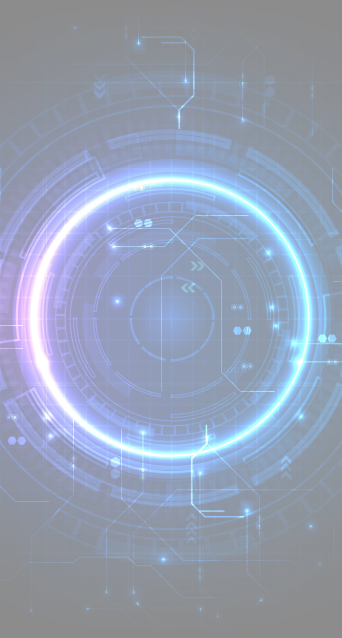
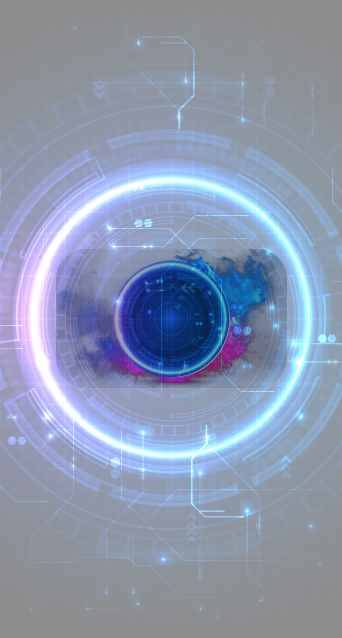
update images for event details

Changed region(s): [[0.1462, 0.3871, 0.848, 0.6254]]

diff --git a/lib/screens/event_details/widgets/event_details_members_widget.dart b/lib/screens/event_details/widgets/event_details_members_widget.dart
@@ -39,39 +39,6 @@ class EventDetailsMembersWidget extends StatelessWidget {
         Positioned.fill(
           child: Center(
             child: Container(
-              height: $constants.events.eventMembersCenterBGHeight,
-              decoration: BoxDecoration(
-                borderRadius: BorderRadius.all(
-                  Radius.circular($constants.insets.md),
-                ),
-                shape: BoxShape.rectangle,
-                image: const DecorationImage(
-                  image: AssetImage(PathConstants.eventHostBGImage),
-                  fit: BoxFit.fitHeight,
-                ),
-              ),
-            ),
-          ),
-        ),
-        Positioned.fill(
-          child: Center(
-            child: Container(
-              margin: const EdgeInsets.only(top: 3, left: 3),
-              height: $constants.events.eventMembersCircleBGHeight,
-              width: $constants.events.eventMembersCircleBGHeight,
-              decoration: const BoxDecoration(
-                shape: BoxShape.circle,
-                image: DecorationImage(
-                  image: AssetImage(PathConstants.eventHostBgCircle),
-                  fit: BoxFit.fitHeight,
-                ),
-              ),
-            ),
-          ),
-        ),
-        Positioned.fill(
-          child: Center(
-            child: Container(
               margin: const EdgeInsets.only(top: 4, left: 4),
               height: $constants.events.eventMembersCenterImageSize,
               width: $constants.events.eventMembersCenterImageSize,

diff --git a/lib/data/path_constants.dart b/lib/data/path_constants.dart
@@ -112,10 +112,11 @@ class PathConstants {
   static const String eventMembersBackground =
       'assets/images/events/members_background.png';
   static const String peopleIcon = 'assets/icons/people_icon.svg';
-  static const String eventHostBGImage =
-      'assets/images/events/event_host_bg_image.png';
-  static const String eventHostBgCircle =
-      'assets/images/events/event_host_bg_circle.png';
+
   static const String cosplayBgImage =
       'assets/images/events/cosplay_bg_image.png';
+  static const String cosplayIcon = 'assets/icons/cosplay_icon.svg';
+  static const String eventFilterIcon = 'assets/icons/event_filter_icon.svg';
+  static const String createEventWarning =
+      'assets/images/events/create_event_warning.png';
 }
